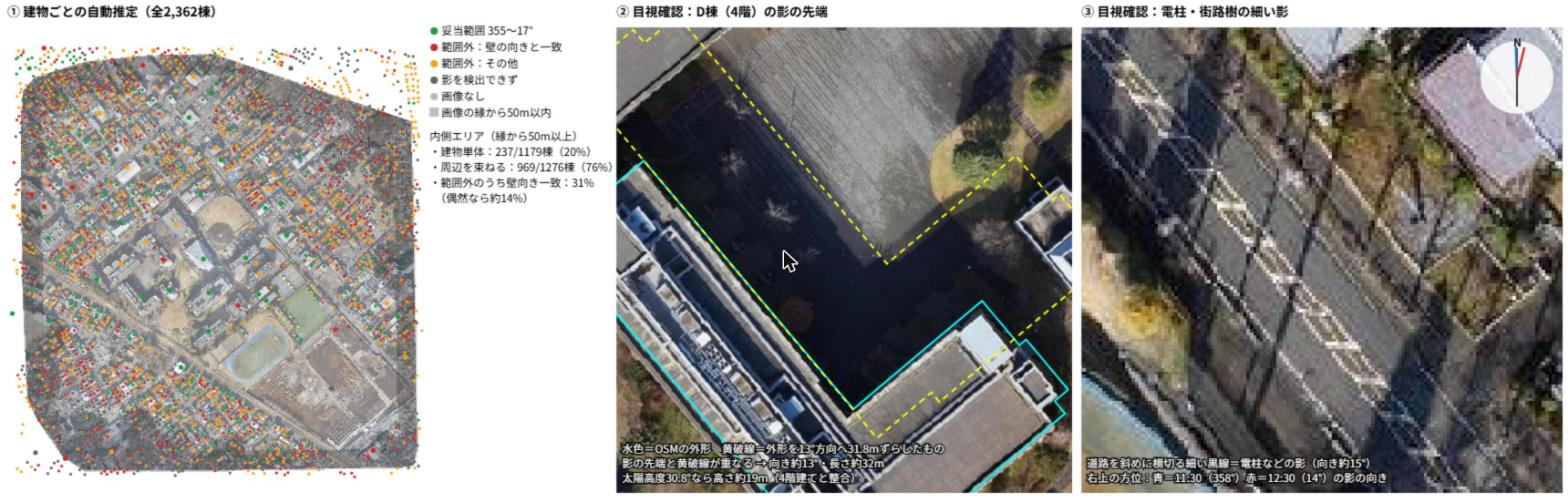
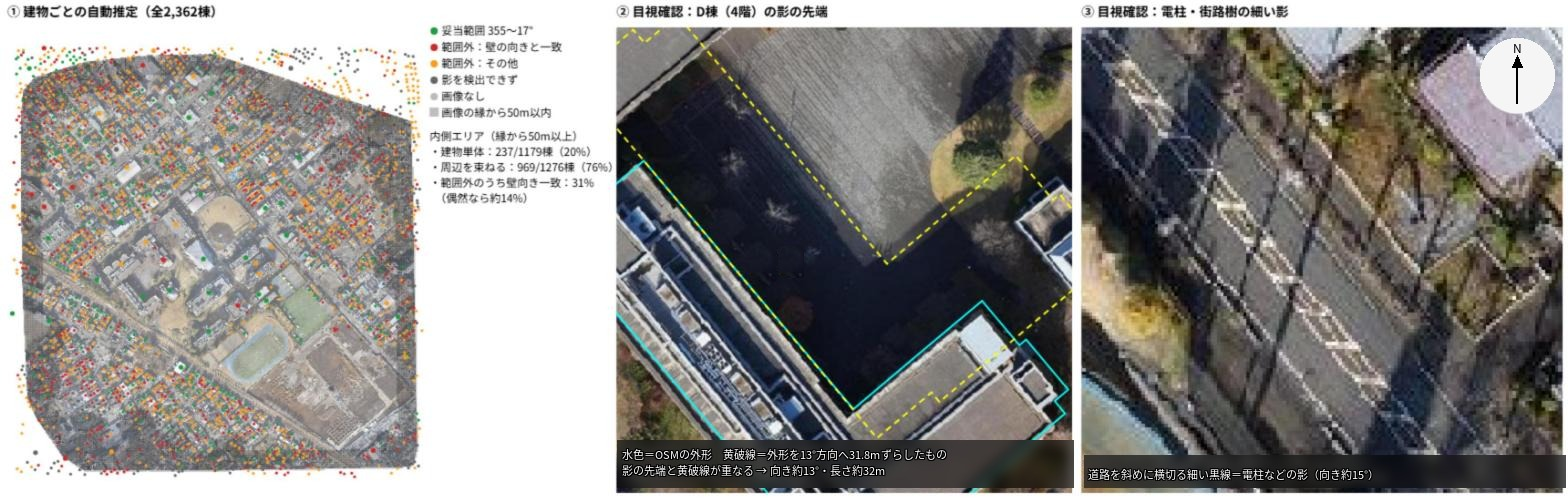
中間発表に向けて研究計画を整理：Bingでの本調査と区画分け、方式A・B、先行研究と新規性を更新

Changed region(s): [[0.375, 0.8665, 1.0, 0.9861], [0.9375, 0.0598, 1.0, 0.1494], [0.5, 0.508, 0.5312, 0.5378]]

diff --git a/src/shadow_direction_browser.js b/src/shadow_direction_browser.js
@@ -28,7 +28,7 @@
     stepDeg: 3,          // 全方位を調べる刻み（度）
     localSigmaM: 60,     // 周りの建物を束ねるときの距離（m）
     interiorM: 50,       // 画像の縁からこれ以上内側を「内側エリア」とする（m）
-    expected: [355, 17], // 撮影時刻（11:30〜12:30）から見た妥当な範囲（度、±3°の余裕込み）
+    expected: [355, 17], // 答え合わせ用の範囲。記録上の撮影時間帯（11:30〜12:30）から計算（度、±3°の余裕込み）。推定そのものには使わない
   };
   const log = (...a) => console.log('[ShadowDir]', ...a);
   const S = {}; // 途中結果

diff --git a/docs/prior-research.md b/docs/prior-research.md
@@ -1,0 +1,105 @@
+# 先行研究のまとめ
+
+> **位置づけ（2026年11月9日時点）**：本研究に近い2024年以降の先行研究について、内容と、本研究との共通点・違いをまとめる。汎用AIの性能はモデルと時点で大きく変わるため、AIを評価した研究では、評価されたモデルの名前を必ず書く。
+
+[README に戻る](../README.md)
+
+## 一覧
+
+| 研究 | 年 | 本研究との関係 |
+| --- | --- | --- |
+| [GlobalBuildingAtlas](#1-globalbuildingatlaszhu-et-al-2025) | 2025 | 世界規模の建物の高さデータ。専用に訓練したAIによる先行例 |
+| [Xie et al.](#2-xie-et-al2026) | 2026 | 1枚の画像の影から高さを出す。角度は分かっている前提 |
+| [Chaudhry et al.](#3-chaudhry-et-al2024) | 2024 | 撮影時刻の分からない画像の影から高さを出す |
+| [Ma et al.](#4-ma-et-al2025) | 2025 | PLATEAUの計測高さを正解にした日本の高さ推定 |
+| [ShadowBench](#5-shadowbenchmorita-et-al2026) | 2026 | 汎用AIが影の向きを読めるかの評価 |
+| [GeoHeight-Bench・Geo3DVQA](#6-geoheight-benchhu-et-al2026geo3dvqatsujimoto-et-al2025) | 2025〜2026 | 汎用AIに航空写真から高さを答えさせる評価 |
+
+---
+
+## 1. GlobalBuildingAtlas（Zhu et al., 2025）
+
+- **出典**：Zhu, X. X. ほか（ミュンヘン工科大学ほか）、*Earth System Science Data*, 17, 6647–6668。[論文](https://essd.copernicus.org/articles/17/6647/2025/)、[GitHub](https://github.com/zhu-xlab/GlobalBuildingAtlas)
+- **何をしたか**：約3mの衛星画像（PlanetScope、主に2019年）から、画像1枚で画素ごとに高さを予測する深層学習モデル（HTC-DC Net）を使い、世界中の建物の高さを推定した。建物の外形の中で予測された一番高い値を、その建物の高さとした。
+- **訓練の見本**：航空レーザで測った168都市の高さ（欧州109・北米39・オセアニア17・アジア2・南米1）。
+- **結果**：RMSEは世界平均5.5m、アジア5.9m。日本だけの数値は示されていない。
+- **限界（著者）**：高層の多い地域で低く見積もる。アフリカの訓練・検証データがない。検証データ自体が少ない。
+- **本研究との共通点**：建物1棟ごとに高さを付ける。建物の外形にOSMを使う。同じ場所を複数回推定して、ばらつきを不確かさとする（本研究でも3回推定に取り入れる）。
+- **違い**：影は使わず、高さ推定専用に訓練したモデルで推定している。日本での精度は示されておらず、正確な高さとしての確証はない。
+
+## 2. Xie et al.（2026）
+
+- **出典**：Xie, Y., Tu, J., Zhao, Y., Xia, R., Song, W., Feng, D., & Hu, Y., *Remote Sensing*, 18(5), 801。[論文](https://www.mdpi.com/2072-4292/18/5/801)
+- **目的**：高解像度の衛星画像1枚から、影を使って建物の高さを推定する。都市の場所によって建物の密度や高さの傾向が違うのに、全体を1つの式で扱うと精度が落ちることを課題とした。
+- **データ**：WorldView-3（0.45m）。中国13都市（北京、上海、蘭州、南寧など）の11,168棟。正解は地図サービス（AutoNavi）の階数×3m。
+- **方法**：
+  1. 屋根と影の輪郭を手作業で描く（影がはっきりした建物だけを使う）。
+  2. 影の中に太陽の方位に沿った平行線を引き、外れ値を除いた平均を影の長さとする。
+  3. 高さ＝影の長さ×係数。係数は、画像の付属情報にある太陽と衛星の高度・方位から計算する。
+  4. 建物の並び方（DBSCAN）で、高層・中高層混在・低層密集などの地区に分け、地区ごとに別の方法で補正する。
+- **結果**：平均誤差2.07m、RMSE 2.56m。補正前に50m以上ずれていた都市も、補正後は全都市で1.09〜3.44mに収まった。
+- **限界（著者）**：影が隣の建物や樹木にさえぎられる密集地。地区分けのしきい値は中国の都市を前提に経験的に決めた。超高層は影が重なり誤差が大きい。影の自動抽出は今後の課題。
+- **本研究との共通点**：1枚の画像の影の長さから高さを出す。場所ごとに分けて扱う。密集地で影がさえぎられることを課題としている（本研究の試行でも同じことが起きた）。
+- **違い**：
+  - 太陽と衛星の角度が分かっている前提。本研究は角度も撮影時刻も分からない画像を扱うため、基準建物との比を使う。
+  - 地区分けの基準は建物の並び方。本研究は影の向き（同じ写真がもとになっている範囲）で区画を分ける。
+  - 影は手作業で描き、はっきりした影の建物だけを使っている。本研究はAIで影を測り、測れない建物も含めて報告する。
+  - 正解は階数×3mで、実測の高さではない。本研究はPLATEAUの計測高さを使う。
+
+## 3. Chaudhry et al.（2024）
+
+- **出典**：Chaudhry, S., Qureshi, M., Jabbar, S., & Taj, M.（パキスタン・LUMS）、arXiv:2411.09411。[論文](https://arxiv.org/abs/2411.09411)
+- **何をしたか**：Google Earthの画像（中国42都市、約5万棟）で建物と影を検出し（YOLOv7）、影の長さを予測して（ResNet18）、影の長さ×tan(太陽高度) で高さを出した。
+- **結果**：RMSE 3.84m。ただし30m以下で、計算上の高さが正解から大きく外れない建物に絞った評価。絞る前の平均誤差は約10m。
+- **本研究との共通点**：撮影時刻の分からない画像の影から高さを出す。
+- **違い**：撮影時刻を、評価に使う正解から逆算している。本研究は基準建物と評価する建物を分け、評価する建物の正解は推定に使わない。正解は階数×3m（30m以上は一律33m）。
+
+## 4. Ma et al.（2025）
+
+- **出典**：Ma, J., Zhao, C., Ogawa, Y., & Sekimoto, Y.（東京大学 空間情報科学研究センター）、*ISPRS Archives*, XLVIII-4/W15-2025（3D GeoInfo 2025）。[論文](https://isprs-archives.copernicus.org/articles/XLVIII-4-W15-2025/107/2025/isprs-archives-XLVIII-4-W15-2025-107-2025.pdf)
+- **目的**：高さの分からない建物（計画中の建物も含む）に高さを付け、デジタルツインの3D都市モデルを作る。PLATEAUは2024年8月時点で212市区町村にとどまり、多くの中小都市には高さのデータがないことを背景とする。
+- **データ**：PLATEAUの計測高さ（`measuredHeight`）を正解に、仙台・前橋・大牟田・茅野・徳島の15,036棟（2.4〜40mの建物に絞る）。
+- **方法**：建物の形（面積・周長・縦横比など）、周りの建物の数、用途地域、屋根の種類、接する道路から、機械学習（ランダムフォレストなど）で高さを予測する。屋根の種類は、0.3mの航空写真から画像認識モデル（EVA-02）で判定した。用途地域を3つのグループに分けて、グループごとに学習した。
+- **結果**：全体で平均誤差3.50m、決定係数0.52。最も良いグループで平均誤差1.20m、決定係数0.67。
+- **公開**：研究室の「3D City Model Generation Simulator」の一部としてGitHubで公開している。
+- **本研究との共通点**：PLATEAUの計測高さを正解にした日本の研究。PLATEAUのない地域に高さを付けることを目的とし、道具を公開している。
+- **違い**：画像から高さそのものは読み取らず、影も使わない。本研究は、航空写真の影という実際の手がかりから高さを出す。対象の都市が違うため、3.50mは参考値として扱う。
+
+## 5. ShadowBench（Morita et al., 2026）
+
+- **出典**：Morita, R., Kitada, S., Frolov, S., Moser, B. B., Watanabe, K., Takahashi, R., Zhou, J., & Dengel, A., arXiv:2610.30740（WACV 2027採択）。[論文](https://arxiv.org/abs/2610.30740)
+- **目的**：汎用AI（画像を読めるAI）が、影から光の向きを理解しているのか、影があることに気づいているだけなのかを確かめる。
+- **データ**：物体と、その影が写った実際の写真458場面。影を消した画像と、影の向きを反転させた画像も用意した。
+- **評価したモデル**：公開モデル19種（2B〜78B。Qwen・InternVL・Gemma・LLaVAなど）と、GPT-5、Gemini-3.1-pro。**Claudeは評価されていない。**
+- **結果**：
+  - **見えている影の向きを読む**：5方向から選ぶ問題で、Gemini-3.1-proは74.8%、GPT-5は52.2%、公開モデルの最高（Gemma-4-31B）は67.4%、人は84.7%。30°刻みの予備調査では、最も良いモデルでも正解は31%（±30°以内で44%）。
+  - **影がないときに、影の向きを推測する**：最も良いモデルで50.8%（人は85.7%）。
+  - **影の向きが正しいか判定する**：ほぼ当てずっぽうと同じ。
+  - 段階的に考えさせても（Chain-of-Thought）、良くならなかった。
+  - 画像生成AIに影を描かせてから読ませると、推測と判定が大きく改善した。
+- **限界（著者）**：画面上の影の向きだけを扱い、本当の光源の位置は求めていない。向きは大まかな区別だけで、細かい角度は今後の課題。
+- **本研究との共通点**：汎用AIが影の向きを読み取れるかという、方式Aと、影の向きによる区画分けの前提を扱う。
+- **違い**：地上で撮った写真で、航空写真ではない。Claudeは評価されていない。高さは扱っていない。
+- **本研究への示唆**：
+  - 同じ問題でも、モデルによって正答率が20ポイント以上違う。本研究で使うモデルを1つに固定し、名前を記録する理由になる。
+  - 汎用AIが読み取れる影の向きは、大まかな区別まで。区画分けに必要な細かさで読めるかは分からないため、方式A（AIが見て判断）と方式B（プログラムで測る）の両方で確かめる必要がある。
+
+## 6. GeoHeight-Bench（Hu et al., 2026）・Geo3DVQA（Tsujimoto et al., 2025）
+
+- **出典**：Hu, X. ほか、arXiv:2603.25565（[論文](https://arxiv.org/abs/2603.25565)）。Tsujimoto, M. ほか、arXiv:2512.07276（[論文](https://arxiv.org/html/2512.07276v2)）
+- **何をしたか**：航空写真だけを見せて、汎用AIに高さに関する質問に答えさせる評価。GeoHeight-Benchはドイツ・フランス・アメリカの航空写真で約27万問。
+- **評価したモデル**：GPT-4o、Gemini-2.5-Flash、公開モデルなど。**Claudeは評価されていない。**
+- **結果**：建物を見つけて高さを答える問題の正答率は、GPT-4oで12.2%、Gemini-2.5-Flashで29.8%（GeoHeight-Bench）。Geo3DVQAでも高さの区分を当てる問題でGPT-4oは27.8%。専用の高さ推定モデルの結果を渡すと正答率が上がった。
+- **本研究との共通点**：汎用AIに航空写真から高さを答えさせる。
+- **違い**：基準建物の高さも、影という手がかりも与えていない。本研究は、この2つの「物差し」を与えたときに、どこまで推定できるかを確かめる。
+
+---
+
+## 候補にしたが外した研究
+
+| 研究 | 外した理由 |
+| --- | --- |
+| Zhang & Wang（2024） | 評価したのは2023年のGPT-4Vで、内容は場面の理解・位置の特定・数え上げ・変化の検出。高さも影も扱っていない |
+| Watson & Elliott（2025） | ステレオ衛星画像とレーザ高度計で、既存の高さデータを南米・アフリカ・アジアの都市で比べた研究。影を使っていない |
+| Liu et al.（2025） | ペルーで、ステレオ衛星画像から高さを推定した研究。影を使っていない |
+| Memar et al.（2025） | レーダー画像（SAR）から高さを推定した研究。影を使っていない |
